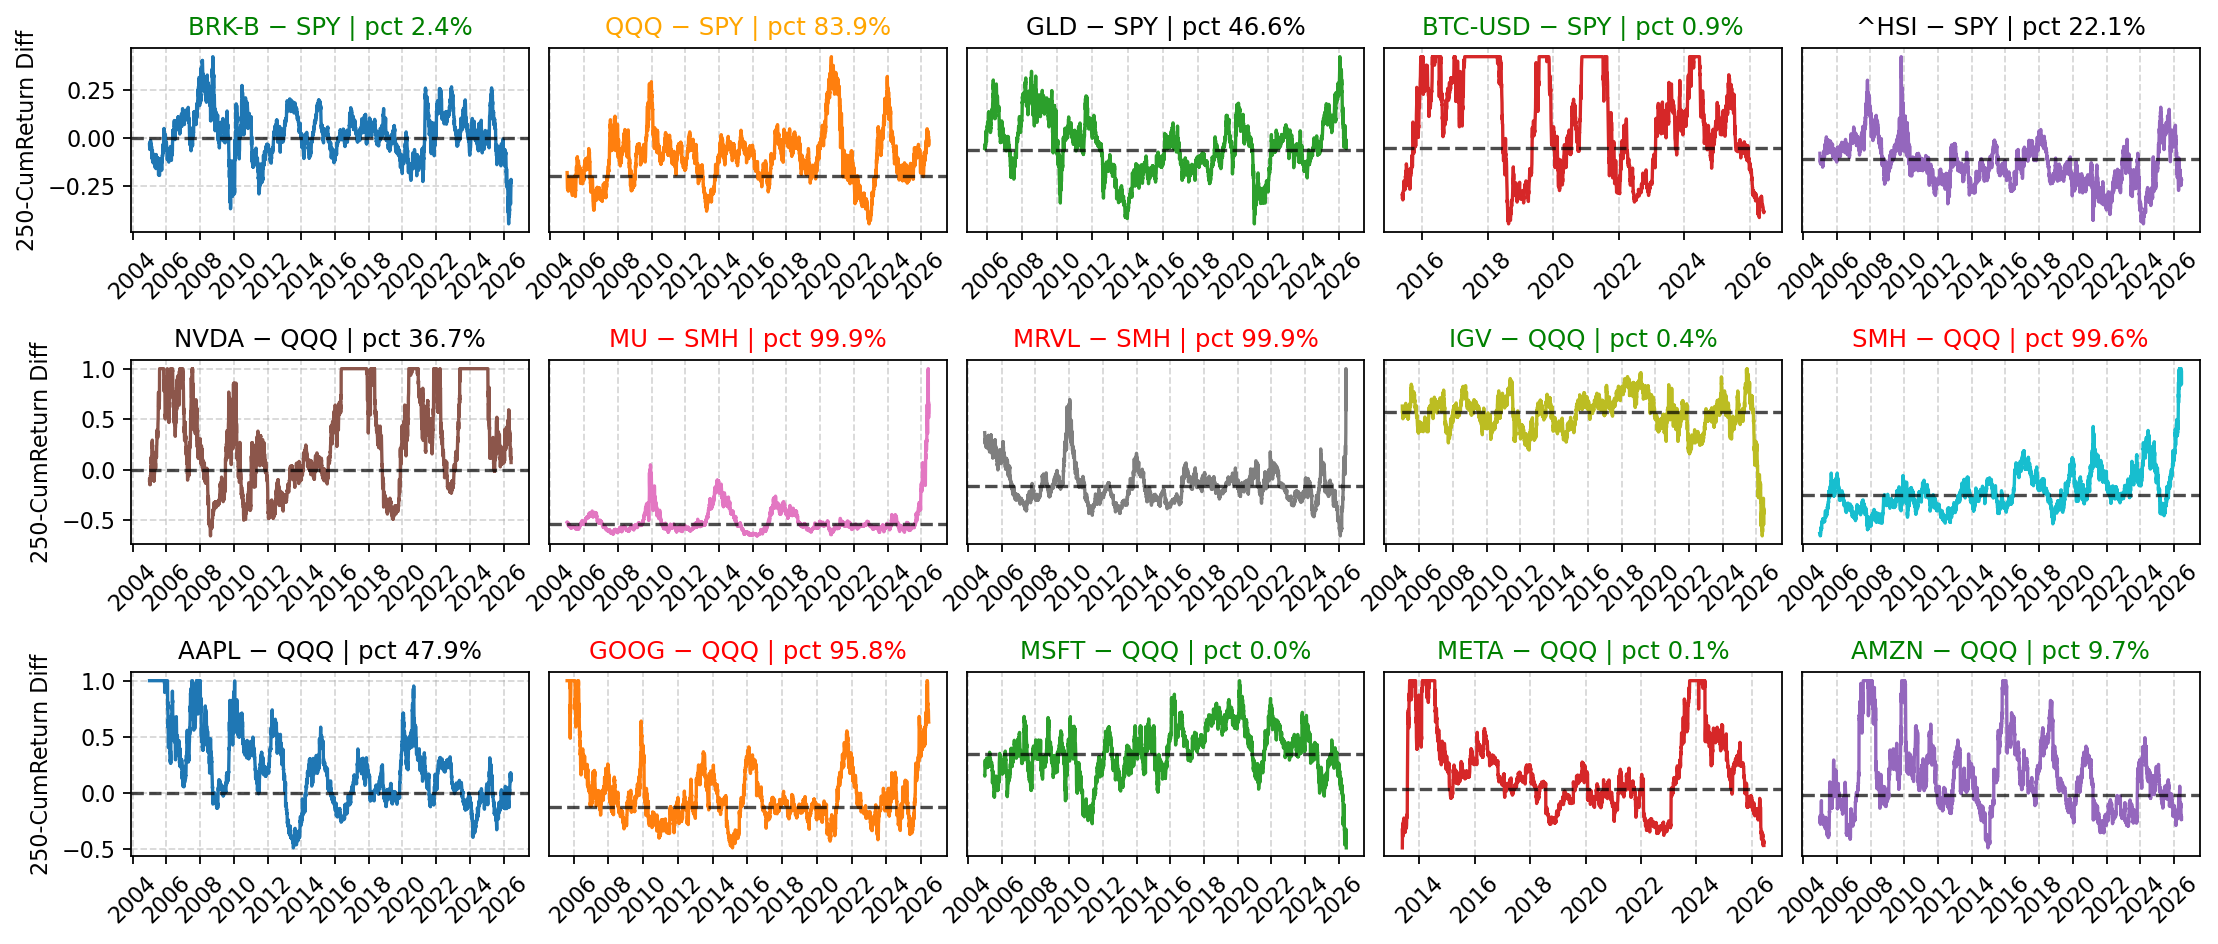
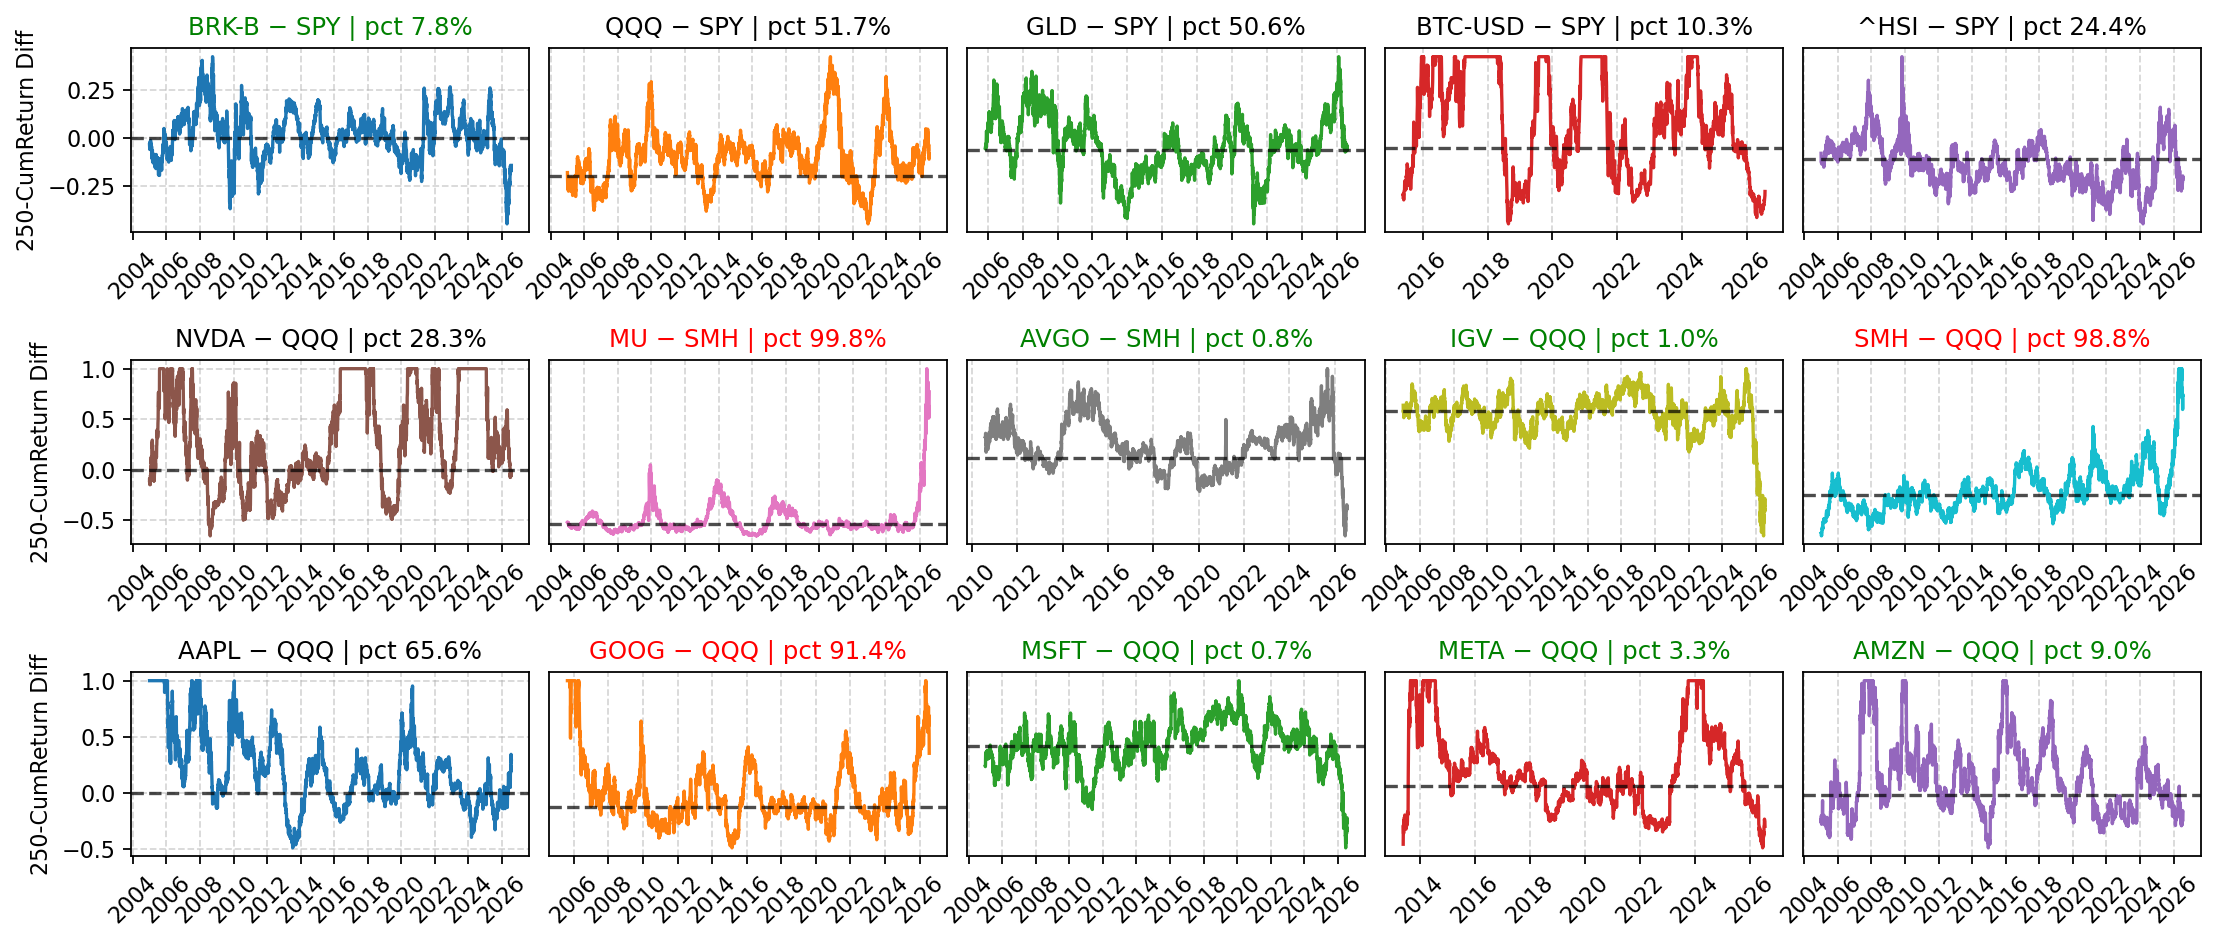
.

diff --git a/docs/index.html b/docs/index.html
@@ -12,7 +12,7 @@
 </head>
 <body>
   <h1>Rolling Pair Diffs (250-day)</h1>
-  <div class="meta">Last updated: 2026-06-12 00:45 UTC</div>
+  <div class="meta">Last updated: 2026-07-24 01:12 UTC</div>
   <p><img src="rolling_pairs.png" alt="rolling pairs figure"></p>
   <div class="note">
     Data via <code>yfinance</code>. Figure regenerates daily via GitHub Actions.

diff --git a/auto_macro_pair_monitor.py b/auto_macro_pair_monitor.py
@@ -27,7 +27,7 @@ PAIRS = [
     ('^HSI', 'SPY'),      
     ('NVDA', 'QQQ'),     
     ('MU', 'SMH'), 
-    ('MRVL', 'SMH'), 
+    ('AVGO', 'SMH'), 
     ('IGV', 'QQQ'),      
     ('SMH', 'QQQ'),  
     ('AAPL', 'QQQ'),  
